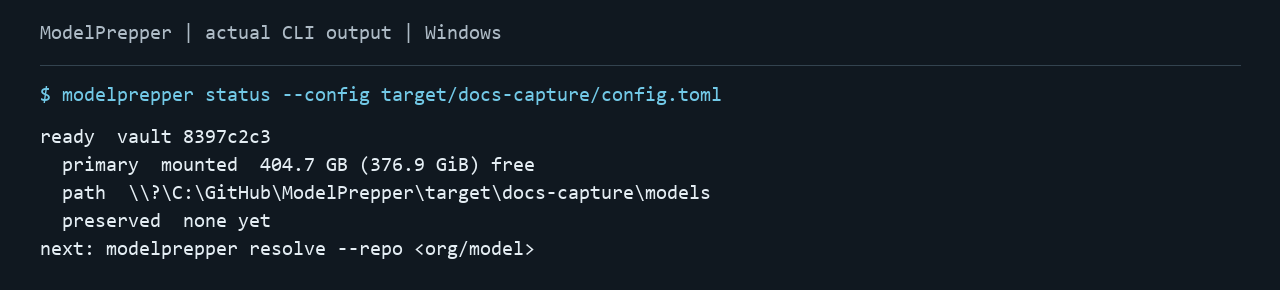
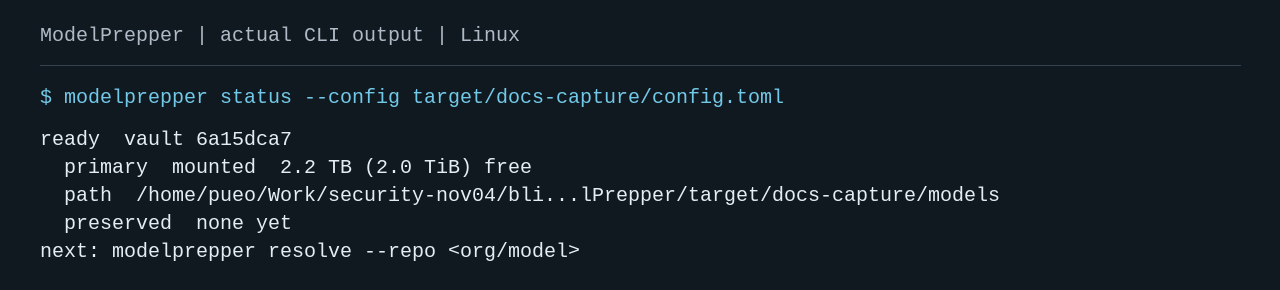
Render local inventory fields as safe terminal text (#42)
* Escape local inventory fields in terminal output

* Refresh CLI captures for terminal-safe inventory output

diff --git a/src/runtime.rs b/src/runtime.rs
@@ -77,15 +77,15 @@ impl RuntimeInventory {
         } else {
             "partial"
         };
-        let mut lines = vec![format!("{verdict}  {}", self.summary)];
+        let mut lines = vec![format!("{verdict}  {}", terminal_field(&self.summary))];
         if !self.message.is_empty() {
-            lines.push(format!("  {}", self.message));
+            lines.push(format!("  {}", terminal_field(&self.message)));
         }
         if !self.note.is_empty() {
-            lines.push(format!("  {}", self.note));
+            lines.push(format!("  {}", terminal_field(&self.note)));
         }
         for model in &self.models {
-            let quant = model.quantization.as_deref().unwrap_or("unknown");
+            let quant = terminal_field(model.quantization.as_deref().unwrap_or("unknown"));
             let license = if model.license_layer {
                 "license"
             } else {
@@ -94,15 +94,18 @@ impl RuntimeInventory {
             let missing = if model.missing_roles.is_empty() {
                 String::new()
             } else {
-                format!("  missing {}", model.missing_roles.join(", "))
+                format!(
+                    "  missing {}",
+                    terminal_field(&model.missing_roles.join(", "))
+                )
             };
             lines.push(format!(
                 "  {name}  {coverage}  {matched}/{total}  {format}/{quant}  {license}{missing}",
-                name = model.name,
-                coverage = coverage_word(&model.coverage),
+                name = terminal_field(&model.name),
+                coverage = terminal_field(coverage_word(&model.coverage)),
                 matched = model.matched_digests,
                 total = model.total_digests,
-                format = model.format,
+                format = terminal_field(&model.format),
             ));
         }
         let next = if self
@@ -124,6 +127,20 @@ impl RuntimeInventory {
         lines.push(format!("next: {next}"));
         lines.join("\n")
     }
+}
+
+fn terminal_field(value: &str) -> String {
+    let mut text = String::new();
+    for ch in value.chars() {
+        if ch.is_control()
+            || matches!(ch, '\u{200e}' | '\u{200f}' | '\u{202a}'..='\u{202e}' | '\u{2066}'..='\u{2069}' | '\u{061c}' | '\u{2028}' | '\u{2029}' | '\\')
+        {
+            text.extend(ch.escape_default());
+        } else {
+            text.push(ch);
+        }
+    }
+    text
 }
 
 fn coverage_word(coverage: &str) -> &str {
@@ -588,6 +605,54 @@ mod tests {
             r#"{{"schemaVersion":2,"config":{{"mediaType":"application/vnd.docker.container.image.v1+json","digest":"sha256:aaaaaaaaaaaaaaaaaaaaaaaaaaaaaaaaaaaaaaaaaaaaaaaaaaaaaaaaaaaaaaaa","size":10}},"layers":[{}]}}"#,
             layers.join(",")
         )
+    }
+
+    #[test]
+    fn inventory_text_escapes_fields_without_changing_json() {
+        let root = tempfile::TempDir::new().unwrap();
+        let store = root.path().join("models");
+        let dir = store.join("manifests/registry.ollama.ai/library/example");
+        fs::create_dir_all(&dir).unwrap();
+        fs::write(dir.join("latest"), manifest(&"b".repeat(64), false, false)).unwrap();
+        let mut report = inventory(&[store], None).unwrap();
+        let hostile = "model\u{1b}[2J\rhidden\nforged\t\u{8}\u{7f}\u{9b}\u{202e}\\literal";
+        report.models[0].name = hostile.into();
+        report.message = hostile.into();
+        let json = serde_json::to_value(&report).unwrap();
+        assert_eq!(json["models"][0]["name"], hostile);
+        let text = report.text();
+        assert_eq!(text.lines().count(), 5);
+        assert!(text.contains("\\u{1b}[2J\\rhidden\\nforged"));
+        assert!(!text.chars().any(|ch| ch.is_control() && ch != '\n'));
+        assert!(!text.contains('\u{202e}'));
+        for color in [false, true] {
+            let rendered = crate::present::render_runtime(&report, color, 80);
+            assert_eq!(rendered.lines().count(), 5);
+            assert!(!rendered.contains("\u{1b}[2J"));
+            assert!(!rendered.contains('\r'));
+        }
+    }
+
+    #[test]
+    #[cfg(unix)]
+    fn hostile_store_filename_cannot_add_terminal_rows() {
+        let root = tempfile::TempDir::new().unwrap();
+        let dir = root
+            .path()
+            .join("manifests/registry.ollama.ai/library/example");
+        fs::create_dir_all(&dir).unwrap();
+        let tag = "tag\u{1b}[31m\nforged\r";
+        fs::write(dir.join(tag), manifest(&"b".repeat(64), false, false)).unwrap();
+        let report = inventory(&[root.path().to_path_buf()], None).unwrap();
+        assert_eq!(report.models[0].name, format!("example:{tag}"));
+        let json = serde_json::to_value(&report).unwrap();
+        assert_eq!(json["models"][0]["name"], format!("example:{tag}"));
+        for color in [false, true] {
+            let text = crate::present::render_runtime(&report, color, 500);
+            assert!(text.contains("tag\\u{1b}[31m\\nforged\\r"));
+            assert!(!text.contains("\u{1b}[31m"));
+            assert_eq!(text.lines().count(), report.text().lines().count());
+        }
     }
 
     #[test]

diff --git a/docs/contracts.md b/docs/contracts.md
@@ -92,6 +92,8 @@ Hashing and copying progress goes to stderr. A terminal rewrites one line at mos
 
 `readiness` reads a schema_version 1 recipe and one local directory. It reports `mode` `offline-preflight`. Integrity, per-capability closure, rights, availability, environment, runtime retention, and `offline_readiness` stay separate. `transfer_authorized`, `network_contact`, `executed`, and `vault_mutated` are false. `provenance` is `declared_only`. The profile `publisher-safetensors-text-v1` requires declared config, tokenizer, weight, and template files for `text-generation`. A retained file at most 2 MiB is hashed. A larger retained file is unverified. Runtime retention is `retained` only when that artifact's bytes match. A larger retained runtime is `unverified`, a present runtime that fails its size or hash check is `damaged`, and an absent retained runtime is `missing`. A named package or a remote URL stays `named` or `remote` and does not satisfy retention. `offline_readiness` is `untested` unless the recipe already contains a drill record that still matches this digest, runtime version, OS, architecture, disabled network, and empty cache, and the selected capability's retained bytes still match. Otherwise a recorded pass is `stale`. The command does not create the directory, follow a link, contact a publisher, execute code, or write a vault. Unknown recipe fields and schema versions are rejected.
 
+`local list` escapes control characters, bidi controls, and backslashes in human-readable fields before constructing rows. JSON preserves the original field values.
+
 `local list` uses schema_version 2. Without `--config`, coverage is `not_checked`, `preserved` is null, and missing roles are empty. With `--config`, coverage is `none_recorded`, `partially_recorded`, or `all_components_recorded`. Counts are distinct usable digests. Unknown media types are kept and can count as `other`. An empty media type, an unknown role, or a digest that is not 64 hex characters makes that component unusable and blocks `all_components_recorded`. `preserved` is true only when every usable component's digest was already in the catalog. That is historical byte identity. It is not a new hash, a mounted-disk check, or proof the model runs offline. A missing volume does not delete those catalog digests. Manifest discovery skips symlinks and Windows reparse points, including a manifests directory that is itself a link, instead of listing the directories they point at.
 
 Adoption requires a real source directory outside the catalog and every configured vault volume, including on retries with an existing preserved copy. A missing volume path still reserves that directory, and a Windows verbatim prefix is the same path. Local license evidence must be a regular file with the captured byte length before it is opened; its hash is streamed in bounded chunks. Symlinks and Windows reparse points within reviewed file paths are rejected. A directory listing records a link and does not descend into it. The same rejection applies when the path given to `verify-local` is itself a link. A link at `preserved` or the adoption staging directory is rejected before a copy or rename can leave the volume. A published directory that already has a custody row must still match that recorded manifest; a missing optional file is not a new exclusion. A regular file in the staging directory that is outside the frozen set, including a leftover partial, is removed before publication. A link there is left in place and rejects the publication.
